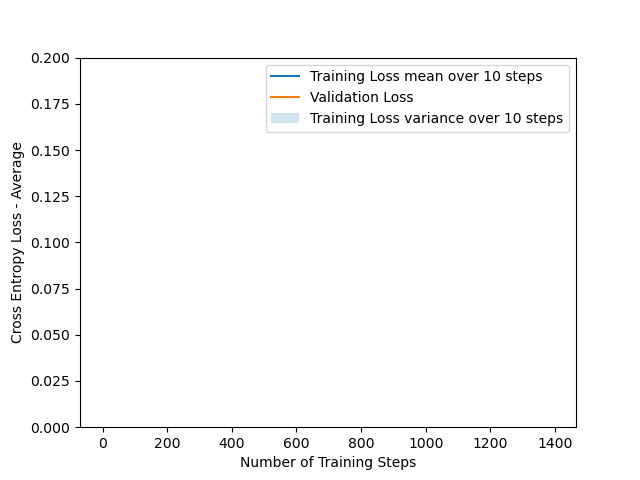
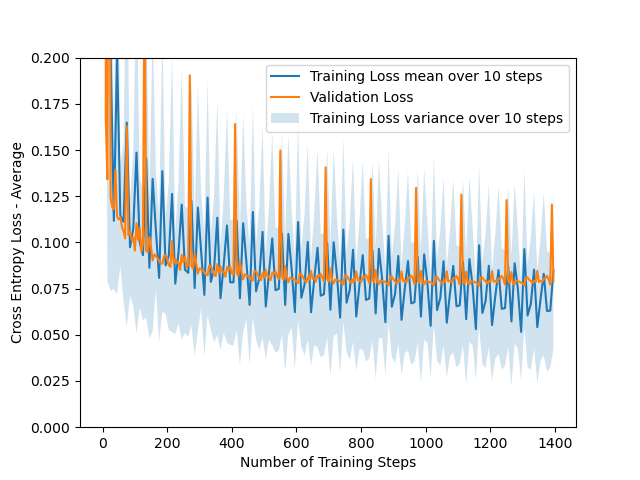
2b finished
2 b finished and tested

Changed region(s): [[0.1562, 0.125, 0.875, 0.7812]]

diff --git a/assignment1/task2.py b/assignment1/task2.py
@@ -35,12 +35,12 @@ class LogisticTrainer(BaseTrainer):
             loss value (float) on batch
         """
         # TODO: Implement this function (task 2b)
-        
-        outputs = model.forward(X_batch)
-        model.backward(X_batch,outputs,Y_batch)
-        
+        outputs = model.forward(X_batch)                
         loss = cross_entropy_loss(Y_batch, outputs)
+        model.backward(X_batch,outputs,Y_batch)
+        model.w = model.w-learning_rate*model.grad
 
+        print(loss)
         return loss
 
     def validation_step(self):

diff --git a/assignment1/task2a.py b/assignment1/task2a.py
@@ -31,14 +31,7 @@ def cross_entropy_loss(targets: np.ndarray, outputs: np.ndarray) -> float:
         Cross entropy error (float)
     """
     # TODO implement this function (Task 2a)
-    N = targets.shape[0]
-    K = targets.shape[1] # = 1
-
-    loss = -1/(N*K) * np.sum(targets * np.log(outputs) + (1 - targets) * np.log(1 - outputs))
-
-    assert targets.shape == outputs.shape,\
-        f"Targets shape: {targets.shape}, outputs: {outputs.shape}"
-    return loss
+    
 
 
     assert targets.shape == outputs.shape,\
